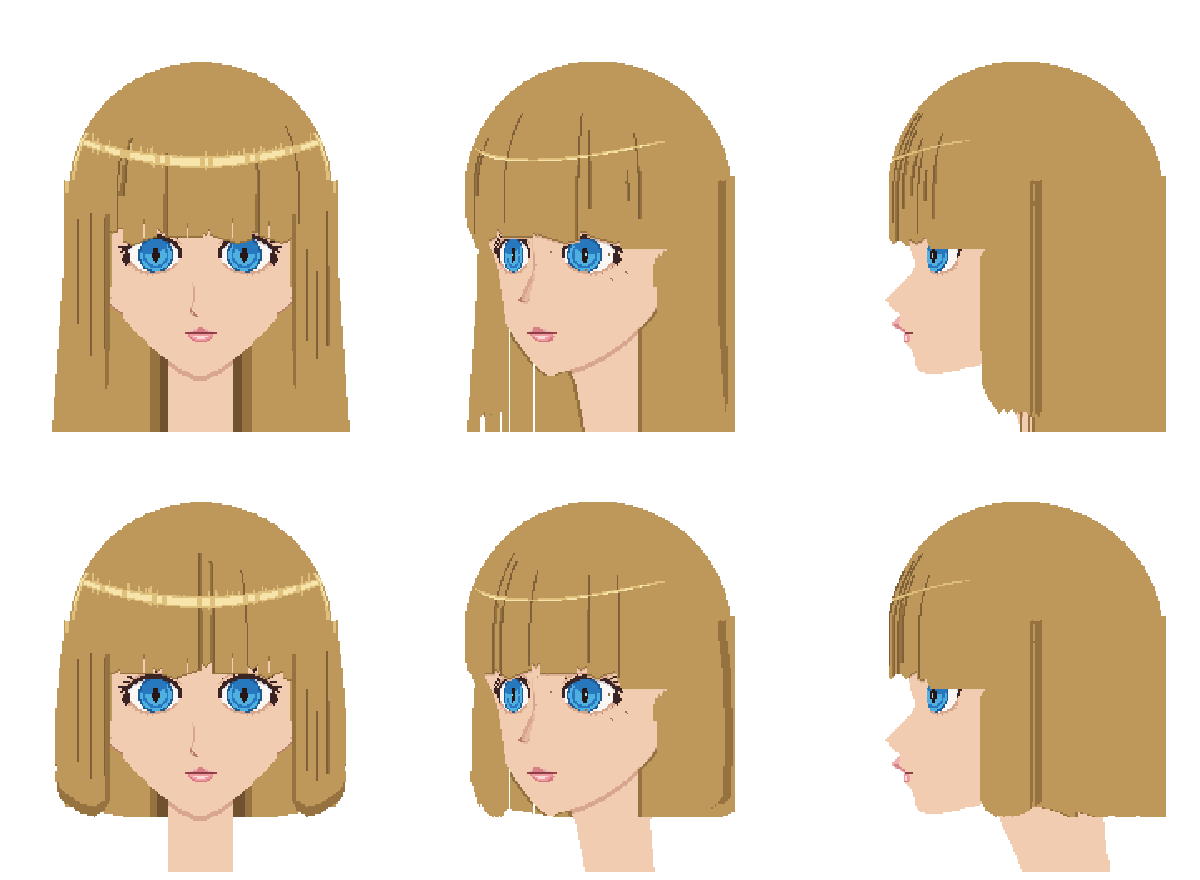
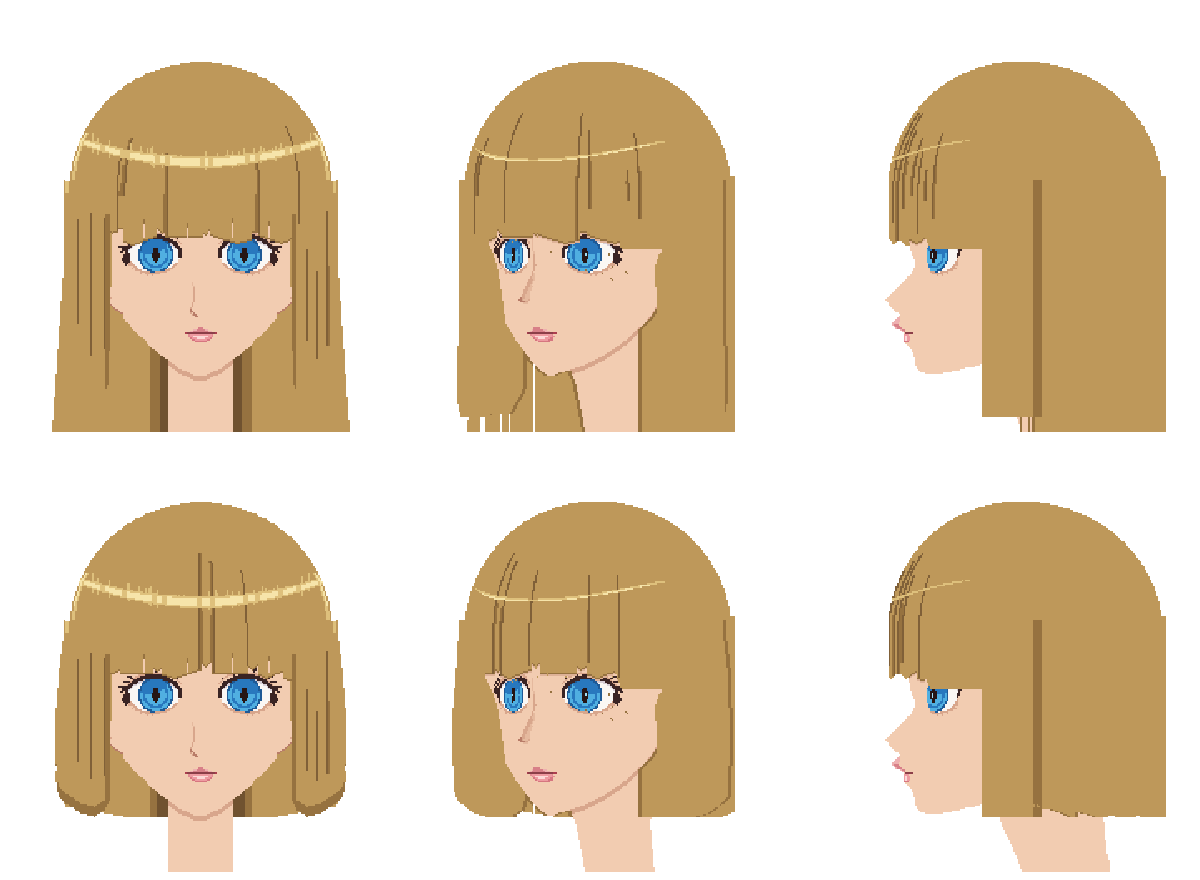
droom 臉模 v2：側臉的兩側頭髮改成直直垂下來（使用者：不要貼著下顎的形狀）——兩側改成一塊直立的厚片，每列前後一樣深，側面看前緣是一條直線、鮑伯下緣是平的
Claude-Session: https://claude.ai/code/session_01FDQv7ddy7JMjePn6AqJ3VJ

diff --git a/web/droom/face_mold/v2/hair3d.py b/web/droom/face_mold/v2/hair3d.py
@@ -61,9 +61,11 @@ def samples():
     for o in(0,.5):P.append((x+o,Yp+.0,z,'bang'));P.append((x+o,Yp+.5,z,'bang'))
   # 兩側：從太陽穴垂下的兩片，靠臉那邊在前（z 大）、外側在耳朵那裡（z 小）
   for Yp,X in zip(*np.nonzero(sides)):
-    x=X-128;ax=abs(x);zf=-2+26*max(0,min(1,1-(ax-54)/28))   # 靠臉那邊在前一點、外側在耳朵後面
-    for dz in(0,-5,-10):
-      for o in(0,.5):P.append((x+o,Yp,zf+dz,'side'));P.append((x+o,Yp+.5,zf+dz,'side'))
+    # 使用者 2026-11-19：側臉看兩側的頭髮要直直垂下來（不是貼著下顎的形狀）→ 兩側是一塊直立的厚片，前緣在臉頰後面一點、
+    # 每一列前後一樣深，側面看前緣就是一條直線
+    x=X-128
+    for zf in np.arange(-12,23,.8):
+      P.append((x,Yp,zf,'side'));P.append((x+.5,Yp+.5,zf,'side'))
   # 後髮：頭後面一大片，從後腦一路垂下來（外層＋內層有厚度）
   rows=np.nonzero(back.any(1))[0]
   for Yp in rows:
@@ -88,7 +90,7 @@ def render(img,deg,cx):
       c=cat[(X,Yp)]
       col=C['mid'] if c in('cap','bang','side') else C['mid']
       x,y,z=pt[(X,Yp)]
-      if c=='side' and z<-6:col=C['sh']                                 # 兩側的內層（後面那片）暗
+      if c=='side' and z<-8:col=C['sh']                                 # 兩側最裡面那層暗
       out[Yp,X]=col;vis[(X,Yp)]=(c,x,y,z)
   # 後髮：只有貼著脖子／臉的那一兩格暗（不要整塊暗）
   for (X,Yp),(c,x,y,z) in vis.items():
